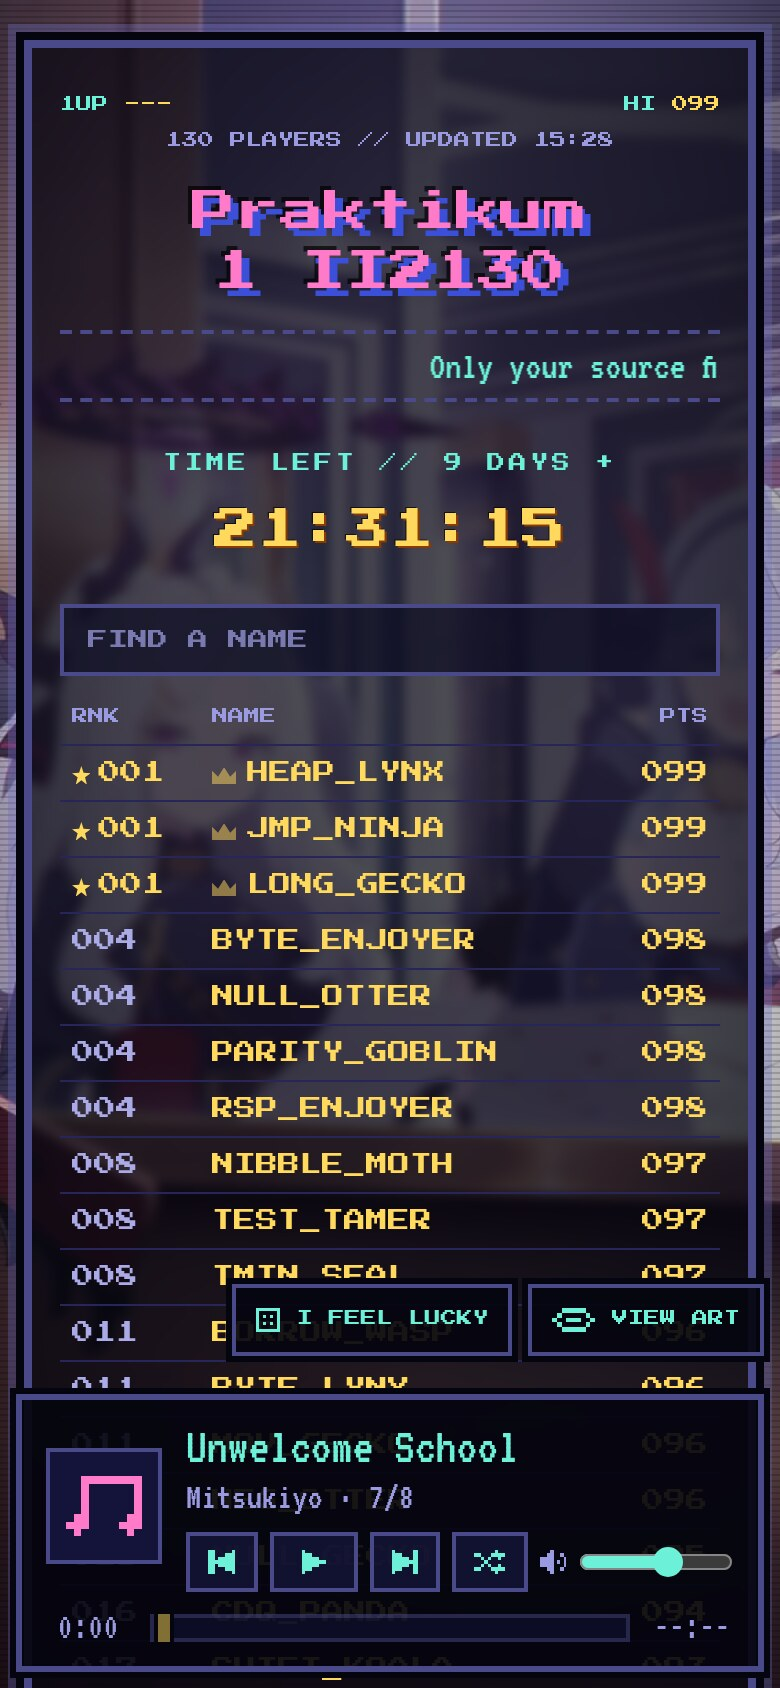
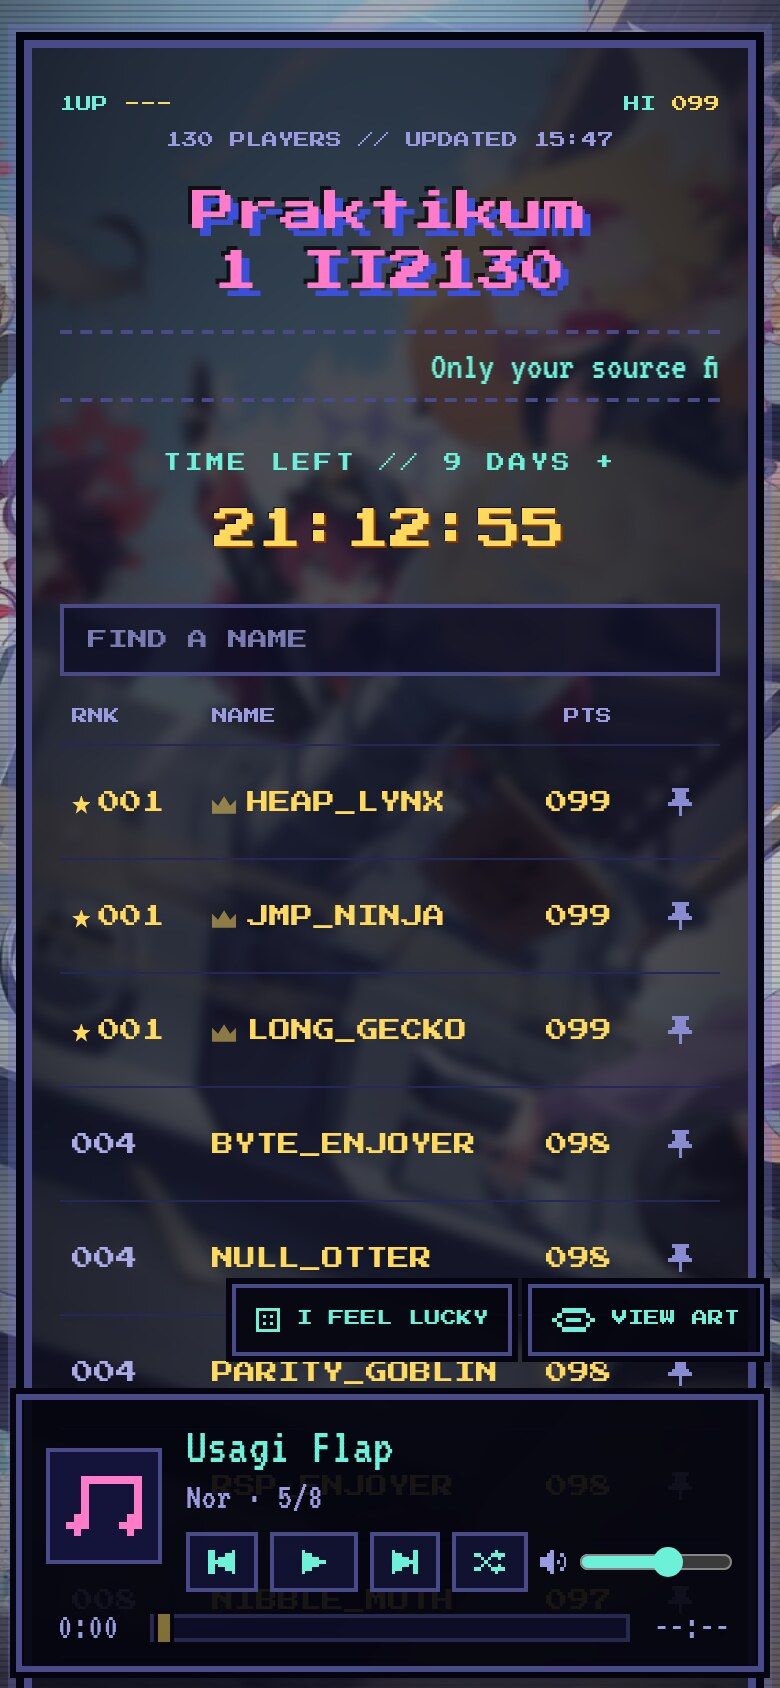
feat: add a pin button to each scoreboard row
Students now pin themselves with a pin button at the end of their row
instead of typing their exact name. Pinning shows the YOU strip and the
1UP rank; clicking the pin again or the strip's X unpins, and pinning
another row moves the pin. Searching only filters and no longer pins,
so looking up a friend cannot replace your own pin. The pin keeps a
40 px tap target on phones.

Adds board and app-level tests for pinning; screenshots are refreshed.

diff --git a/frontend/src/components/Board.test.tsx b/frontend/src/components/Board.test.tsx
@@ -15,9 +15,22 @@ const entries = withKeys(
 );
 const ok: BoardState = { status: "ok", entries, updatedAt: new Date(), stale: false, deltas: new Map() };
 
-function Harness({ board = ok, meName = "" }: { board?: BoardState; meName?: string }) {
+function Harness({ board = ok, initialMe = "" }: { board?: BoardState; initialMe?: string }) {
   const [query, setQuery] = useState("");
-  return <Board board={board} query={query} onQuery={setQuery} me={findMe(board.entries, meName)} onForgetMe={() => {}} pageSize={20} scoreLabel="PTS" />;
+  const [meName, setMeName] = useState(initialMe);
+  const me = findMe(board.entries, meName);
+  return (
+    <Board
+      board={board}
+      query={query}
+      onQuery={setQuery}
+      me={me}
+      onForgetMe={() => setMeName("")}
+      onTogglePin={(entry) => setMeName(me?.key === entry.key ? "" : entry.name)}
+      pageSize={20}
+      scoreLabel="PTS"
+    />
+  );
 }
 
 const bodyRows = () => document.querySelectorAll("tbody tr").length;
@@ -51,7 +64,7 @@ describe("Board with 130 students", () => {
   });
 
   it("pins the YOU strip and expands the list to reach the student's row", () => {
-    render(<Harness meName="student_099" />);
+    render(<Harness initialMe="student_099" />);
     expect(screen.getByText("YOU")).toBeTruthy();
     expect(bodyRows()).toBe(20);
     act(() => {
@@ -81,5 +94,34 @@ describe("Board with 130 students", () => {
   ] as [BoardState, string][])("renders the %#th status message", (board, message) => {
     render(<Harness board={board} />);
     expect(screen.getByText(message)).toBeTruthy();
+  });
+  it("pins a student with the row's pin button and unpins with a second click", () => {
+    render(<Harness />);
+    expect(screen.queryByText("YOU")).toBeNull();
+    const pin = screen.getByRole("button", { name: "Pin student_005 as you" });
+    expect(pin.getAttribute("aria-pressed")).toBe("false");
+    fireEvent.click(pin);
+    expect(screen.getByText("YOU")).toBeTruthy();
+    expect(document.querySelector("tr.me")?.getAttribute("data-key")).toBe("student_005#0");
+    const unpin = screen.getByRole("button", { name: "Unpin student_005" });
+    expect(unpin.getAttribute("aria-pressed")).toBe("true");
+    fireEvent.click(unpin);
+    expect(screen.queryByText("YOU")).toBeNull();
+    expect(document.querySelector("tr.me")).toBeNull();
+  });
+
+  it("moves the pin when another student is pinned", () => {
+    render(<Harness initialMe="student_002" />);
+    fireEvent.click(screen.getByRole("button", { name: "Pin student_007 as you" }));
+    expect(document.querySelectorAll("tr.me")).toHaveLength(1);
+    expect(document.querySelector("tr.me")?.getAttribute("data-key")).toBe("student_007#0");
+    expect(screen.getByRole("button", { name: "Pin student_002 as you" }).getAttribute("aria-pressed")).toBe("false");
+  });
+
+  it("keeps the pin while searching for someone else", () => {
+    render(<Harness initialMe="student_003" />);
+    fireEvent.change(screen.getByLabelText("Find a name"), { target: { value: "student_120" } });
+    expect(screen.getByText("YOU")).toBeTruthy();
+    expect(bodyRows()).toBe(1);
   });
 });

diff --git a/frontend/src/components/Board.tsx b/frontend/src/components/Board.tsx
@@ -3,6 +3,7 @@ import type { CSSProperties } from "react";
 import type { BoardState } from "../hooks/useLeaderboard";
 import { growLimit, page } from "../lib/board";
 import type { KeyedEntry } from "../lib/types";
+import { PinIcon } from "./icons";
 
 interface BoardProps {
   board: BoardState;
@@ -10,6 +11,8 @@ interface BoardProps {
   onQuery: (value: string) => void;
   me: KeyedEntry | undefined;
   onForgetMe: () => void;
+  /** Pins the student as "you", or unpins them if they are already pinned. */
+  onTogglePin: (entry: KeyedEntry) => void;
   pageSize: number;
   scoreLabel: string;
 }
@@ -51,7 +54,7 @@ function Bar({ entry }: { entry: KeyedEntry }) {
   );
 }
 
-export function Board({ board, query, onQuery, me, onForgetMe, pageSize, scoreLabel }: BoardProps) {
+export function Board({ board, query, onQuery, me, onForgetMe, onTogglePin, pageSize, scoreLabel }: BoardProps) {
   const [limit, setLimit] = useState(pageSize);
   const [intro, setIntro] = useState(true);
   const [jumpTo, setJumpTo] = useState<string | null>(null);
@@ -140,6 +143,9 @@ export function Board({ board, query, onQuery, me, onForgetMe, pageSize, scoreLa
                 <th scope="col" className="s">
                   {scoreLabel}
                 </th>
+                <th scope="col" className="p">
+                  <span className="sr-only">Pin</span>
+                </th>
               </tr>
             </thead>
             <tbody>
@@ -168,6 +174,18 @@ export function Board({ board, query, onQuery, me, onForgetMe, pageSize, scoreLa
                     </td>
                     <td className="s">
                       <Score value={entry.score} animate={intro} />
+                    </td>
+                    <td className="p">
+                      <button
+                        type="button"
+                        className="pin"
+                        onClick={() => onTogglePin(entry)}
+                        aria-pressed={me?.key === entry.key}
+                        aria-label={me?.key === entry.key ? `Unpin ${entry.name}` : `Pin ${entry.name} as you`}
+                        title={me?.key === entry.key ? "Unpin" : "Pin as you"}
+                      >
+                        <PinIcon />
+                      </button>
                     </td>
                   </tr>
                 );

diff --git a/frontend/src/App.test.tsx b/frontend/src/App.test.tsx
@@ -1,0 +1,53 @@
+import { cleanup, fireEvent, render, screen } from "@testing-library/react";
+import { afterEach, beforeEach, describe, expect, it, vi } from "vitest";
+import { App } from "./App";
+
+const config = {
+  title: "Praktikum 1 II2130",
+  practicum: "datalab",
+  practicums: [{ id: "datalab", name: "Data Lab", endpoint: "/api/v1/leaderboard" }],
+};
+const entries = Array.from({ length: 30 }, (_, i) => ({ rank: i + 1, name: `student_${String(i + 1).padStart(2, "0")}`, score: 100 - i, max_score: 100 }));
+
+beforeEach(() => {
+  localStorage.clear();
+  Element.prototype.scrollIntoView = vi.fn();
+  vi.stubGlobal(
+    "fetch",
+    vi.fn(async (url: string) => {
+      if (url === "/config/config.json") return new Response(JSON.stringify(config), { status: 200 });
+      if (url === "/api/v1/leaderboard") return new Response(JSON.stringify({ entries }), { status: 200 });
+      return new Response("", { status: 404 });
+    }),
+  );
+});
+afterEach(() => {
+  cleanup();
+  vi.unstubAllGlobals();
+});
+
+describe("App pinning", () => {
+  it("does not pin when the search matches a name exactly, only the pin button pins", async () => {
+    render(<App />);
+    await screen.findByText("student_01");
+    fireEvent.change(screen.getByLabelText("Find a name"), { target: { value: "student_12" } });
+    expect(screen.queryByText("YOU")).toBeNull();
+    expect(localStorage.getItem("memento.me")).toBeNull();
+
+    fireEvent.click(screen.getByRole("button", { name: "Pin student_12 as you" }));
+    expect(screen.getByText("YOU")).toBeTruthy();
+    expect(screen.getByText(/1UP/).textContent).toContain("#12 student_12");
+    expect(localStorage.getItem("memento.me")).toBe("student_12");
+
+    fireEvent.click(screen.getByRole("button", { name: "Forget my name" }));
+    expect(screen.queryByText("YOU")).toBeNull();
+    expect(localStorage.getItem("memento.me")).toBe("");
+  });
+
+  it("restores a pin saved in an earlier visit", async () => {
+    localStorage.setItem("memento.me", "student_07");
+    render(<App />);
+    await screen.findByText("YOU");
+    expect(screen.getByRole("button", { name: "Unpin student_07" }).getAttribute("aria-pressed")).toBe("true");
+  });
+});

diff --git a/frontend/src/App.tsx b/frontend/src/App.tsx
@@ -11,7 +11,7 @@ import { useLeaderboard } from "./hooks/useLeaderboard";
 import { usePlayer } from "./hooks/usePlayer";
 import { findMe } from "./lib/board";
 import { KEYS, readStored, writeStored } from "./lib/storage";
-import type { Config } from "./lib/types";
+import type { Config, KeyedEntry } from "./lib/types";
 
 const MOCK = import.meta.env.DEV && new URLSearchParams(window.location.search).has("mock");
 
@@ -24,20 +24,21 @@ function Scoreboard({ config }: { config: Config }) {
   const [meName, setMeName] = useState(() => readStored(KEYS.me) ?? "");
   const [hidden, setHidden] = useState(false);
 
-  useEffect(() => {
-    const exact = findMe(board.entries, query);
-    if (exact && exact.name !== meName) {
-      setMeName(exact.name);
-      writeStored(KEYS.me, exact.name);
-    }
-  }, [board.entries, query, meName]);
-
   const me = useMemo(() => findMe(board.entries, meName), [board.entries, meName]);
 
   const forgetMe = useCallback(() => {
     setMeName("");
     writeStored(KEYS.me, "");
   }, []);
+
+  const togglePin = useCallback(
+    (entry: KeyedEntry) => {
+      const next = me?.key === entry.key ? "" : entry.name;
+      setMeName(next);
+      writeStored(KEYS.me, next);
+    },
+    [me],
+  );
 
   const toggleHidden = useCallback(() => setHidden((value) => !value), []);
 
@@ -86,6 +87,7 @@ function Scoreboard({ config }: { config: Config }) {
           onQuery={setQuery}
           me={me}
           onForgetMe={forgetMe}
+          onTogglePin={togglePin}
           pageSize={config.pageSize}
           scoreLabel={practicum.scoreLabel}
         />

diff --git a/frontend/src/styles.css b/frontend/src/styles.css
@@ -112,6 +112,11 @@ td.r { width: clamp(70px, 10vw, 118px); color: #aaaae6; white-space: nowrap; }
 td.n { max-width: 0; overflow: hidden; text-overflow: ellipsis; white-space: nowrap; text-transform: uppercase; }
 td.s { width: clamp(48px, 7vw, 84px); }
 td.b, th.b { width: 34%; }
+td.p, th.p { width: 48px; padding-left: 2px; padding-right: 0; text-align: right; }
+.pin { min-width: 32px; min-height: 32px; padding: 6px 7px; background: transparent; border: 2px solid transparent; color: #8a8ad0; }
+.pin .pix { height: 14px; margin: 0 auto; }
+.pin:hover, .pin:focus-visible { color: var(--pink); border-color: var(--line); background: transparent; }
+.pin[aria-pressed="true"] { color: var(--pink); background: #ff7ac830; border-color: var(--pink); }
 tr.intro { animation: enter 0.35s ease both; animation-delay: calc(var(--i) * 35ms); }
 @keyframes enter { from { opacity: 0; transform: translateX(-18px); } }
 tr.t1 td { color: var(--gold); }
@@ -177,6 +182,7 @@ tr.hit { animation: flash 0.9s steps(6); }
   .actions button { padding: 10px; font-size: 8px; }
   .credit { display: none; }
   td.b, th.b { display: none; }
+  .pin { min-width: 40px; min-height: 40px; }
   .you-main { grid-template-columns: auto auto minmax(0, 1fr) auto; }
   .you-main .seg { display: none; }
   .hud { grid-template-columns: 1fr 1fr; }

diff --git a/frontend/src/components/icons.tsx b/frontend/src/components/icons.tsx
@@ -31,6 +31,7 @@ const PREV = NEXT.map((row) => [...row].reverse().join(""));
 const SHUFFLE = ["......#..", "##...####", "..#.#..#.", "...#.....", "..#.#..#.", "##...####", "......#.."];
 const DICE = ["#######", "#.....#", "#.#.#.#", "#.....#", "#.#.#.#", "#.....#", "#######"];
 const EYE = ["..#####..", ".#.....#.", "#..###..#", ".#.....#.", "..#####.."];
+const PIN = [".#####.", "..###..", "..###..", ".#####.", "#######", "...#...", "...#...", "...#..."];
 const SPEAKER = ["...#....", "..##..#.", "####...#", "####.#.#", "####...#", "..##..#.", "...#...."];
 
 export const NoteIcon = (props: { className?: string }) => <Pixels rows={NOTE} {...props} />;
@@ -42,3 +43,4 @@ export const ShuffleIcon = () => <Pixels rows={SHUFFLE} />;
 export const DiceIcon = () => <Pixels rows={DICE} />;
 export const EyeIcon = () => <Pixels rows={EYE} />;
 export const SpeakerIcon = () => <Pixels rows={SPEAKER} />;
+export const PinIcon = () => <Pixels rows={PIN} />;

diff --git a/frontend/README.md b/frontend/README.md
@@ -84,9 +84,10 @@ Background art and music are usually copyrighted. Credit the artist in
 
 - The countdown turns amber below ten minutes, flashes red below one minute,
   and shows TIME UP at the deadline. Scores stay visible.
-- Searching covers every student, not only the visible rows. An exact name
-  match is remembered as "you": the HUD and a pinned strip show your rank, and
-  the strip jumps to your row.
+- Searching covers every student, not only the visible rows.
+- The pin button at the end of each row marks that student as "you": the HUD
+  and a pinned strip show your rank, and the strip jumps to your row. Click the
+  pin again, or the X on the strip, to unpin.
 - Rank changes since the previous poll show as `+n` or `-n`, and changed scores
   flash.
 - Every page load picks a random background and a random starting track; the
